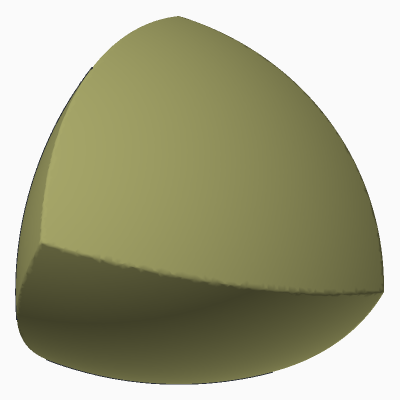
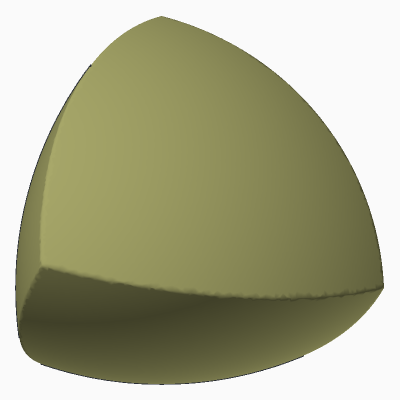
The page's tetrahedron seeds its corners from its side
Claude-Session: https://claude.ai/code/session_01WATBq71hVC8quCWPJ3T11T

diff --git a/site/index.html b/site/index.html
@@ -71,9 +71,9 @@ use std
 param s := 10mm
 
 a := point
-b := point hint((10, 0, 0))
-c := point hint((5, 9, 0))
-d := point hint((5, 3, 8))
+b := point hint((s, 0, 0))
+c := point hint((s / 2, s, 0))
+d := point hint((s / 2, s / 2, s))
 
 a distance(s) b
 a distance(s) c
